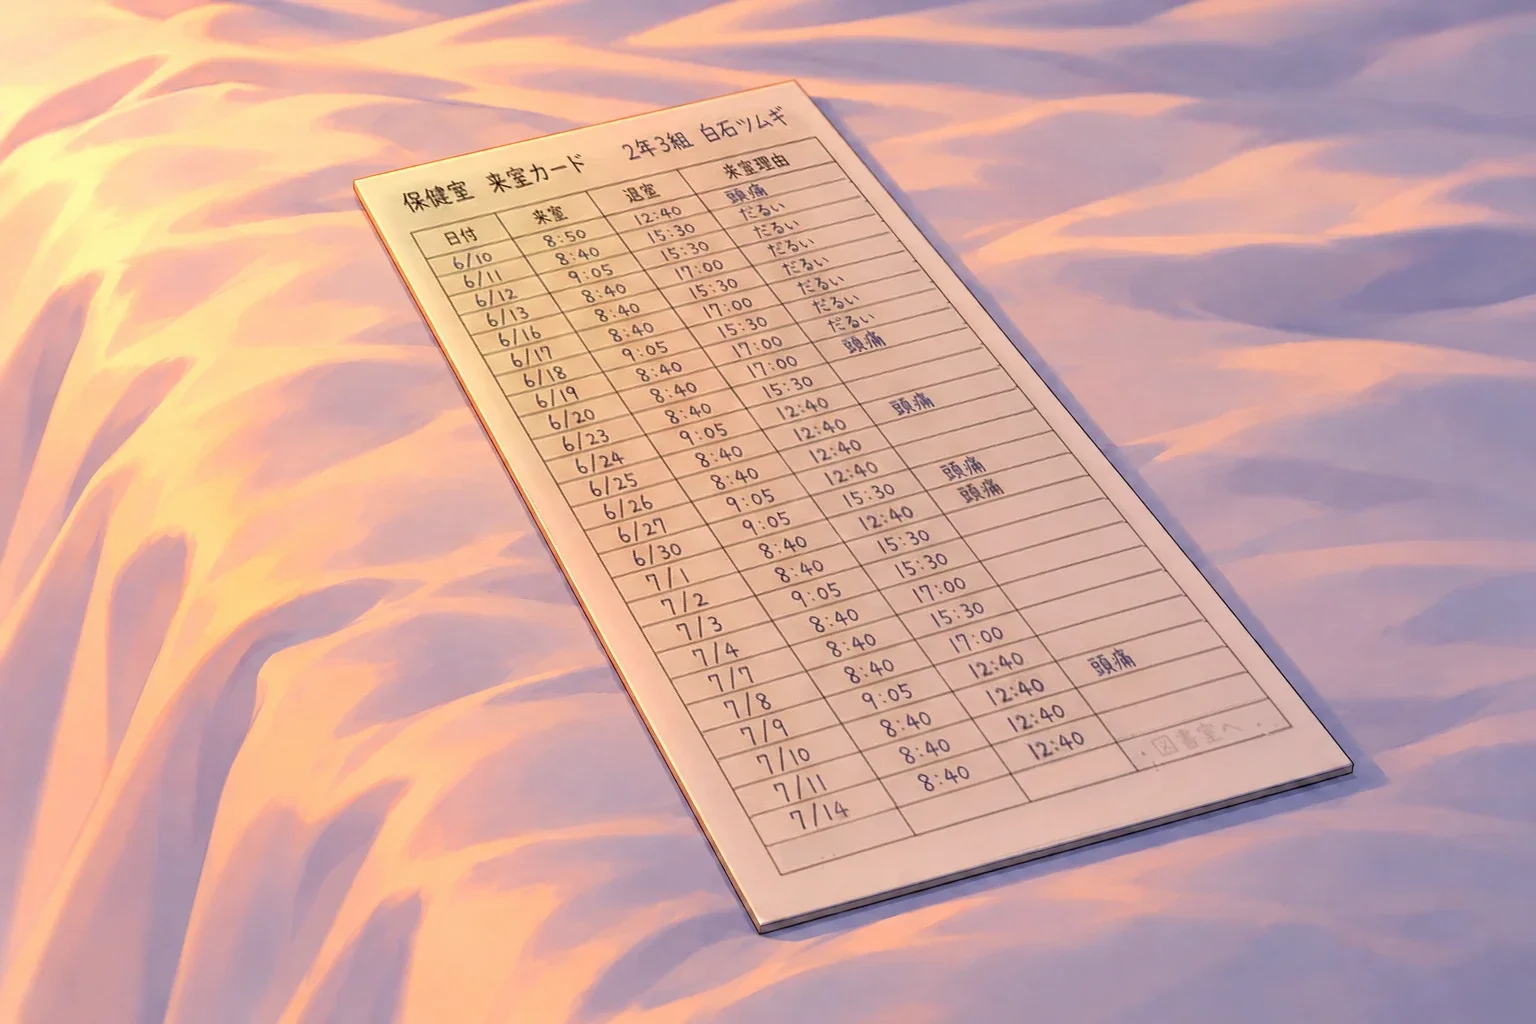
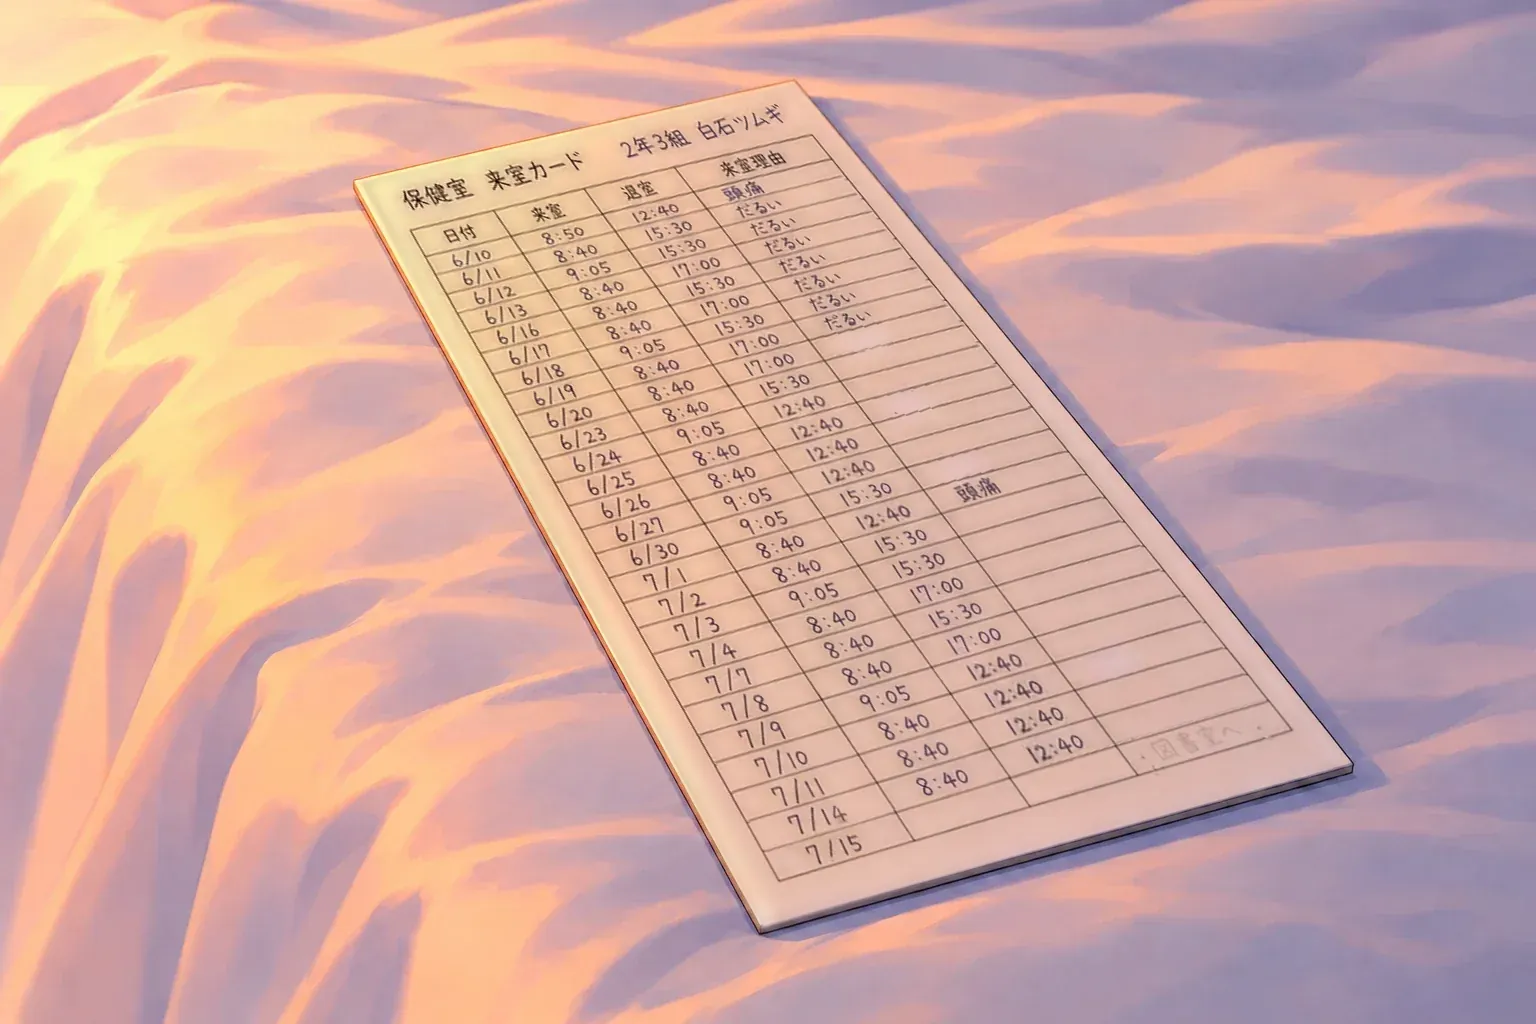
来室カードをそろえる（来室理由・7/15の行、仲直りの形ごとの最後の行）。ケイの反応の言い回し

Changed region(s): [[0.25, 0.0938, 0.8438, 0.9062], [0.75, 0.5625, 0.7812, 0.5938], [0.7188, 0.5, 0.75, 0.5312]]

diff --git a/index.html b/index.html
@@ -7351,7 +7351,7 @@
         return lastWrong();
       }
       /* 3段目の追い詰めるは、選んだ直後に hurt() で */
-      await say([['ケイ', '……え', 'surprise'], ['ケイ', 'なんで、それ。……次の部長に書こうと思ってた言葉、誰にも言ってないのに', 'surprise'],
+      await say([['ケイ', '……え', 'surprise'], ['ケイ', 'なんで、それ。……次の部長に残すつもりだった言葉、誰にも見せてないのに', 'surprise'],
                  '答えられなかった。ただあのメモを覚えていた。']);
       // 作戦ボードの本当の並びは、主人公が手がかりから言い当てたもの（ケイが毎晩こっそり並べては戻していた並び）
       // ・この周回でボードをその並びにした：並べたままのボードを見せる
@@ -7438,6 +7438,8 @@
   /* ---------- 第五章 保健室（ツムギ） ---------- */
   // 来室カード：6/10から毎日。保健室登校は下校時刻まで（ふだん15:30、試験・三者面談の午前授業の日は12:40）。
   // ミオが当番に入った、ふだんの日だけ17:00（図書室が閉まる時刻）。6/10（初日）と7/1は頭痛で早く帰った。今日7/15の行は空欄
+  // 来室理由（2026-11-18 作者と決定）：6/10は頭痛、6/11〜6/19は「だるい」（体の具合を言い訳にしていたころ）、6/20からは空欄（書けることがなくなった）。
+  //   「頭痛」は、ミオの当番の日なのに早く帰った2日（6/10・7/1）だけ（謎解きのヒント）
   const CARD_ROWS = [
     ['6/10', '8:50', '12:40', '頭痛'],
     ['6/11', '8:40', '15:30', 'だるい'],
@@ -7447,13 +7449,13 @@
     ['6/17', '8:40', '17:00', 'だるい'],
     ['6/18', '9:05', '15:30', 'だるい'],
     ['6/19', '8:40', '17:00', 'だるい'],
-    ['6/20', '8:40', '17:00', '頭痛'],
+    ['6/20', '8:40', '17:00', ''],
     ['6/23', '8:40', '15:30', ''],
     ['6/24', '9:05', '12:40', ''],
-    ['6/25', '8:40', '12:40', '頭痛'],
+    ['6/25', '8:40', '12:40', ''],
     ['6/26', '8:40', '12:40', ''],
     ['6/27', '9:05', '12:40', ''],
-    ['6/30', '9:05', '15:30', '頭痛'],
+    ['6/30', '9:05', '15:30', ''],
     ['7/1', '8:40', '12:40', '頭痛'],
     ['7/2', '8:40', '15:30', ''],
     ['7/3', '9:05', '15:30', ''],
@@ -7461,7 +7463,7 @@
     ['7/7', '8:40', '15:30', ''],
     ['7/8', '8:40', '17:00', ''],
     ['7/9', '9:05', '12:40', ''],
-    ['7/10', '8:40', '12:40', '頭痛'],
+    ['7/10', '8:40', '12:40', ''],
     ['7/11', '8:40', '12:40', ''],
     ['7/14', '8:40', '12:40', ''],
     ['7/15', '', '', '']];
@@ -7979,7 +7981,9 @@
     },
     shelfItem(saved) {
       return saved
-        ? { thumb: 'ci_card_done', title: '最後の行まで書いた来室カード', body: `<img class="cg" src="img/ci_card_done.webp" alt="最後の行まで書いた来室カード"><p>空いていた最後の行に、ツムギの字。「7/15　退室　18:30」。来室理由の欄には、「図書室へ」。</p>` }
+        ? (P.cardKind === 'straight' ? { thumb: 'ci_card_done_straight', title: '最後の行まで書いた来室カード', body: `<img class="cg" src="img/ci_card_done_straight.webp" alt="最後の行まで書いた来室カード"><p>空いていた最後の行に、ツムギの字。「7/15　退室　18:30」。来室理由の欄に、書き直した「図書室へ」。その右に、小さく「ミオと」。</p>` }
+          : P.cardKind === 'awk' ? { thumb: 'ci_card_done_awk', title: '最後の行まで書いた来室カード', body: `<img class="cg" src="img/ci_card_done_awk.webp" alt="最後の行まで書いた来室カード"><p>空いていた最後の行に、ツムギの字。「7/15　退室　18:30」。来室理由の欄には、消した「図書室へ」の跡が、そのまま残っている。</p>` }
+          : { thumb: 'ci_card_done', title: '最後の行まで書いた来室カード', body: `<img class="cg" src="img/ci_card_done.webp" alt="最後の行まで書いた来室カード"><p>空いていた最後の行に、ツムギの字。「7/15　退室　18:30」。来室理由の欄には、「図書室へ」。</p>` })
         : { thumb: 'card_bed', title: '保健室の来室カード', body: `<img class="cg" src="img/card_bed.webp" alt="白いシーツの上に残された来室カード"><p>最後の一行だけ空欄。来室理由の欄に、消しゴムで消した「図書室へ」の跡。</p>` };
     },
     async talk() {
@@ -8119,6 +8123,7 @@
                  ['ツムギ', 'いなくても、いいの。……あの子の椅子に、座ってみたいだけ', 'crySmile']]);
       R.st = 'unraveled'; render(); bgm('unravel');
       await say([`……保健室の空気がふっとやわらいだ気がした。時計は${$('#clock').textContent}。チャイムは、まだ鳴らない。`]);
+      P.cardKind = 'split'; saveP();
       return ending({ lines: ['ツムギと一緒に、保健室を出た。', 'ツムギは来室カードの最後の行に、自分で書き込んだ。「18:30　退室　図書室へ」',
                               '昇降口で、ツムギは特別教室棟のほうを見上げた。図書室の窓に明かりはついていなかった。',
                               'それでもツムギは小さく「またね」と言って、渡り廊下のほうへ歩いていった。'],
@@ -8249,10 +8254,14 @@
     R.st = 'unraveled'; render();
     await say([`……保健室の空気がふっとやわらいだ気がした。時計は${$('#clock').textContent}。チャイムは、まだ鳴らない。`, guestHide()]);
     if (straight) achGrant('friends');  // まっすぐな仲直りで、正門まで見送ったとき
-    if (straight) return ending({ lines: ['ミオとツムギと一緒に、保健室を出た。', '昇降口で靴を履き替えると、二人は並んで正門へ歩いていった。',
+    // 2026-11-18 作者と決定：来室カードの最後の行は、仲直りの形で書き方が変わる（決別は「図書室へ」のまま）。わすれもの棚の絵と説明も、最後に見た形に合わせる
+    P.cardKind = straight ? 'straight' : 'awk'; saveP();
+    const cardLines = straight ? ['ツムギは来室カードを手に取って、最後の行に「18:30」と書いた。', '来室理由の欄の、消した「図書室へ」を書き直して、その右に小さく「ミオと」と書き足した。']
+                               : ['ツムギは来室カードを手に取って、最後の行に「18:30」とだけ書いた。', '来室理由の欄の、消した「図書室へ」の跡は、そのままだった。'];
+    if (straight) return ending({ lines: [...cardLines, 'ミオとツムギと一緒に、保健室を出た。', '昇降口で靴を履き替えると、二人は並んで正門へ歩いていった。',
                                          '正門の手前で、ツムギが一度だけ振り返って、手を振った。……その隣で、ミオも小さく手を振った。'],
                                   img: 'gate_mt', alt: '夕焼けの正門で、ツムギとミオが並んで振り返り、二人とも笑って手を振っている' });
-    return ending({ lines: ['ミオとツムギと一緒に、保健室を出た。', '昇降口で靴を履き替えると、二人は少しだけ間をあけて、正門へ歩いていった。',
+    return ending({ lines: [...cardLines, 'ミオとツムギと一緒に、保健室を出た。', '昇降口で靴を履き替えると、二人は少しだけ間をあけて、正門へ歩いていった。',
                             // 2026-11-16 作者の指示：文はそのまま、絵のほうをミオがツムギの半歩後ろに立つ形に直した
                             '正門の手前で、ツムギが振り返って、手を振った。……半歩後ろで、ミオもうつむいたまま小さく手を上げた。'],
                     img: 'gate_mt_awk', alt: '夕焼けの正門で、ツムギが振り返って手を振り、半歩後ろでミオがうつむいて小さく手を上げている' });
@@ -8324,6 +8333,7 @@
     R.st = 'unraveled'; render();
     await say([`ツムギは涙のあとを手の甲でぬぐって、立ち上がった。時計は${$('#clock').textContent}。チャイムは、まだ鳴らない。`]);
     // 2026-11-09：ツムギは「一人にさせて」と言うので、一緒には出ない。主人公が保健室の扉を開けて、その場で見送る（作者の指示）
+    P.cardKind = 'split'; saveP();
     return ending({ lines: ['ツムギは来室カードの最後の行に、自分で書き込んだ。「18:30　退室　図書室へ」', '保健室の扉を開けた。',
                             'ツムギは小さく頭を下げて、廊下へ出ていった。', '廊下に、ミオの姿はもうなかった。', 'ツムギは来室カードを手に、渡り廊下のほうへ一人で歩いていった。'],
                     img: 'hall_tsumugi', alt: '夕日の差す廊下を、渡り廊下のほうへ歩いていくツムギの後ろ姿',
